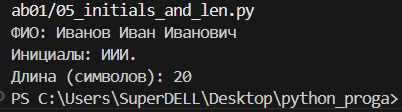
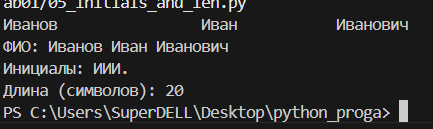
update

diff --git a/src/lab01/05_initials_and_len.py b/src/lab01/05_initials_and_len.py
@@ -1,7 +1,4 @@
-fio = input("ФИО: ")
-fio = fio.strip()
-words = fio.split()
-initials = "".join([word[0].upper() for word in words])
-
-print("Инициалы:", initials + ".")
-print("Длина (символов):", len(fio))
+a, b, c = input().split()
+print(f"ФИО: {a} {b} {c}")
+print(f"Инициалы: {a[0]}{b[0]}{c[0]}.")
+print(f"Длина (символов): {len(a) + len(b) + len(c) + 2}")
